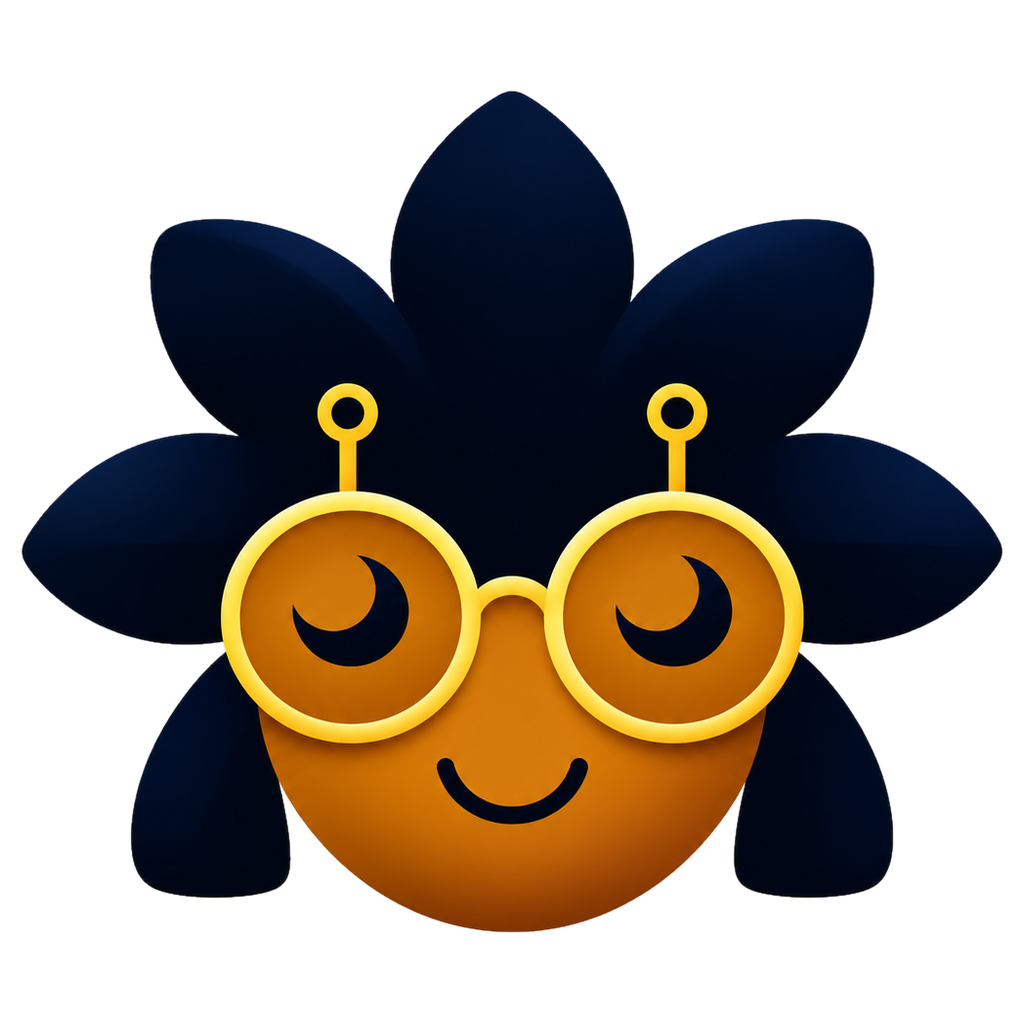
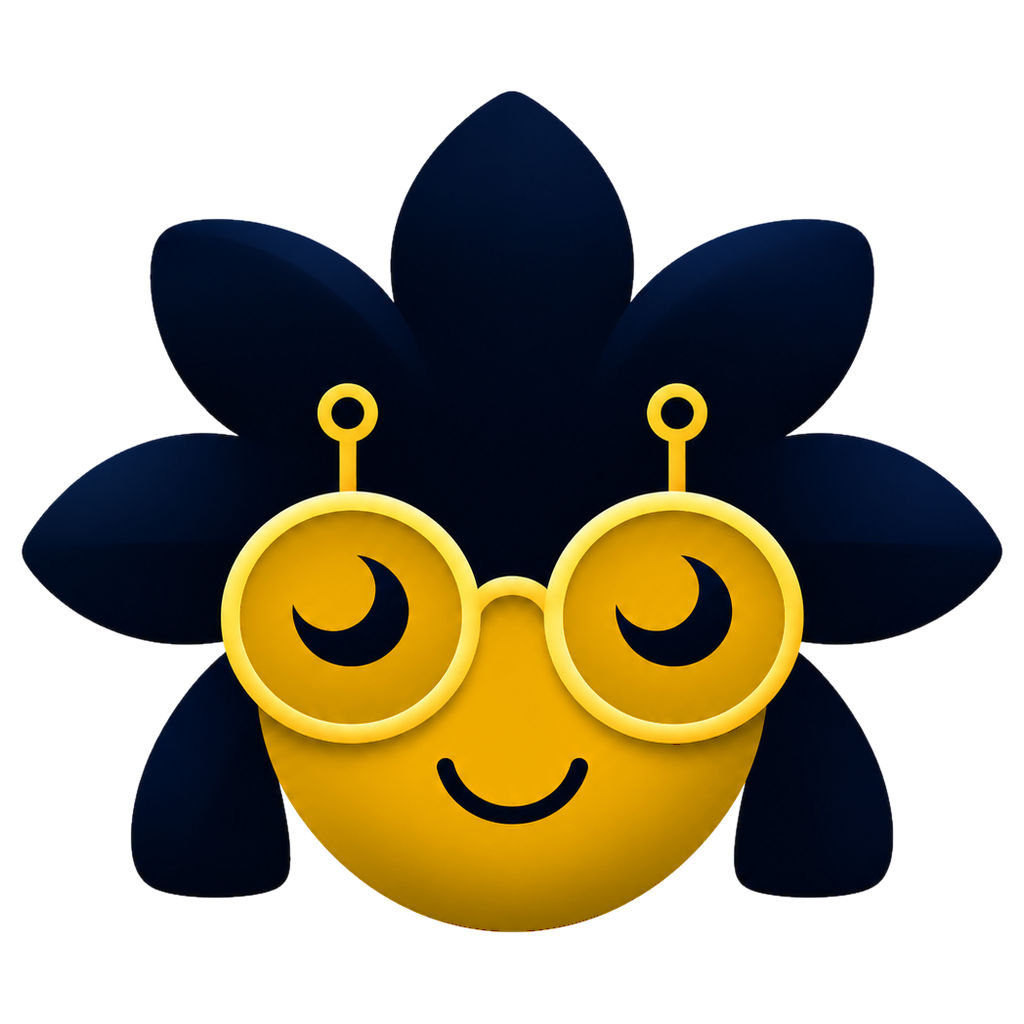
Landing sans réseaux sociaux, validation livreur sous 24 h, teint d'origine de Stella
- Section « Vos clients paient… » : retrait des logos WhatsApp, Facebook,
  Instagram, TikTok et Google ; restent paiement à la livraison et Mobile Money.
- Inscription livreur : le livreur sait dès l'inscription que son compte est
  validé par un administrateur sous 24 h maximum ; bandeau d'attente sur le
  portail transporteur tant que le dossier n'est pas validé.
- Portail transporteur : un échec du premier chargement affiche l'erreur et
  « Réessayer » au lieu d'un « Chargement… » sans fin.
- Stella : visage remis au jaune doré d'AXIA (#EDA900) sur les avatars actuels.

Changed region(s): [[0.2188, 0.5, 0.7812, 0.9062]]

diff --git a/components/logistique/PortailTransporteur.tsx b/components/logistique/PortailTransporteur.tsx
@@ -194,19 +194,23 @@ export function PortailTransporteur() {
   const [actif, setActif] = useState(0);
   const [vue, setVue] = useState<any>(null);
   const [compte, setCompte] = useState<any>(null);
+  const [erreurChargement, setErreurChargement] = useState("");
   const f = liste?.[actif];
   const charger = useCallback(async () => {
-    const d = await api("/api/logistique/fournisseurs"); setCompte(d.compte); setListe(d.fournisseurs);
+    const d = await api("/api/logistique/fournisseurs"); setCompte(d.compte); setListe(d.fournisseurs); setErreurChargement("");
     const x = d.fournisseurs[actif];
     if (x) setVue(await api(`/api/logistique/fournisseurs/${x.id}`));
   }, [actif]);
-  useEffect(() => { charger().catch((e) => toast.error(t(e.message))); const i = setInterval(() => { if (!document.hidden) charger().catch(() => {}); }, 15_000); return () => clearInterval(i); }, [charger, t]);
+  useEffect(() => { charger().catch((e) => setErreurChargement(e.message || "Action impossible")); const i = setInterval(() => { if (!document.hidden) charger().catch(() => {}); }, 15_000); return () => clearInterval(i); }, [charger, t]);
   const repondre = async (id: string, accepter: boolean) => { try { await api(`/api/logistique/assignations/${id}`, "POST", { accepter, motif: accepter ? null : "Indisponible" }); toast.success(t(accepter ? "Course acceptée" : "Course refusée")); charger(); } catch (e: any) { toast.error(t(e.message)); charger(); } };
   const dispo = async () => { try { await api(`/api/logistique/fournisseurs/${f.id}`, "PATCH", { disponible: !f.disponible }); charger(); } catch (e: any) { toast.error(t(e.message)); } };
 
   return <main className="axl"><div className="axl-page">
     <header className="axl-tete"><div><img src="/logo.png" alt="AXSO" /><h1>{f ? f.nom : t("Portail transporteur")}</h1></div>{compte?.role === "livreur" && !f && <a className="axl-btn" href="/livreur">{t("Mes livraisons")}</a>}{f && <div className="axl-tete__a">{compte?.role === "livreur" && <a className="axl-btn" href="/livreur">{t("Mes livraisons")}</a>}<button type="button" className="axl-dispo" aria-pressed={f.disponible} onClick={dispo}><i />{t(f.disponible ? "Disponible" : "Hors service")}</button><button type="button" className="axl-icone" aria-label={t("Actualiser")} onClick={() => charger()}><RefreshCw size={16} /></button></div>}</header>
-    {liste === null ? <p className="axl-doux">{t("Chargement…")}</p> : !f ? <Inscription key={compte?.email ?? "x"} compte={compte} onFait={charger} /> : <>
+    {liste !== null && f?.statutLegal !== "verifie" && <p className="axl-alerte" role="status"><b>{t("Demande d'inscription enregistrée.")}</b> {t("Votre compte est en attente de validation par un administrateur AXSO, sous 24 h maximum. Cette page se met à jour automatiquement dès qu'il est validé.")}</p>}
+    {liste === null ? (erreurChargement
+      ? <div className="axl-carte"><p className="axl-doux">{t("Impossible de charger votre espace pour le moment.")} {t(erreurChargement)}</p><button type="button" className="axl-btn" onClick={() => charger().catch((e) => setErreurChargement(e.message || "Action impossible"))}><RefreshCw size={15} /> {t("Réessayer")}</button></div>
+      : <p className="axl-doux">{t("Chargement…")}</p>) : !f ? <Inscription key={compte?.email ?? "x"} compte={compte} onFait={charger} /> : <>
       {liste.length > 1 && <div className="axl-choix">{liste.map((x, i) => <button key={x.id} type="button" aria-checked={i === actif} role="radio" onClick={() => setActif(i)}>{x.nom}</button>)}</div>}
       {f.suspendu && <p className="axl-alerte">{t("Compte suspendu")} : {f.motifSuspension}</p>}
       <Activation f={f} />

diff --git a/app/(auth)/inscription/livreur/FormulaireLivreur.tsx b/app/(auth)/inscription/livreur/FormulaireLivreur.tsx
@@ -24,7 +24,7 @@ const TYPES: { value: "livreur" | "societe"; label: string; desc: string; Icon: 
 ];
 const ETAPES_RESEAU = [
   ["Créez votre compte", "Quelques informations suffisent."],
-  ["Envoyez vos documents", "Ils restent privés et ne sont jamais montrés aux marchands."],
+  ["Envoyez vos documents", "Un administrateur AXSO valide votre compte sous 24 h maximum. Vos documents restent privés."],
   ["Recevez vos courses", "Le montant net est affiché avant que vous acceptiez."],
 ];
 
@@ -123,7 +123,7 @@ export function FormulaireLivreur({ pays }: { pays: string | null }) {
           {cree ? <>
             <div className="axa-alerte axa-alerte--ok" role="status" style={{ display: "flex", gap: 8 }}>
               <ShieldCheck size={16} style={{ flex: "none", marginTop: 2 }} />
-              <span>{t("Compte créé. Saisissez le code reçu par e-mail pour compléter votre profil.")}</span>
+              <span><b>{t("Demande d'inscription enregistrée.")}</b> {t("Un administrateur AXSO valide votre compte sous 24 h maximum avant activation. En attendant, saisissez le code reçu par e-mail pour compléter votre dossier.")}</span>
             </div>
             <div className="axa" style={{ all: "unset", display: "block" }}>
               <EcranCode email={cree.email} erreurInitiale={cree.erreurEnvoi} onValider={(code) => connecter(cree.email, code)} onRenvoyer={async () => { await demanderCodeConnexion(cree.email, form.password); }} />

diff --git a/components/marketing/home/HomeAxso.tsx b/components/marketing/home/HomeAxso.tsx
@@ -23,11 +23,6 @@ import { Reveal } from "./Reveal";
 const PARTENAIRES: { nom: string; logo: string; large?: boolean; texte?: boolean; sombre?: boolean }[] = [
   { nom: "Orange Money", logo: "orange-money.png", large: true, sombre: true },
   { nom: "MTN MoMo", logo: "mtn-momo.png", large: true, sombre: true },
-  { nom: "WhatsApp", logo: "whatsapp.svg", texte: true },
-  { nom: "Facebook", logo: "facebook.svg", texte: true },
-  { nom: "Instagram", logo: "instagram.svg", texte: true },
-  { nom: "TikTok", logo: "tiktok.svg", texte: true },
-  { nom: "Google", logo: "google.png" },
 ];
 
 const CANAUX = ["Boutique en ligne", "WhatsApp", "Caisse en magasin", "Mobile Money", "Paiement à la livraison", "Livreurs", "Stock unifié", "Vente en gros", "Multi-devises", "Stella", "Produits numériques", "Domaines"];
